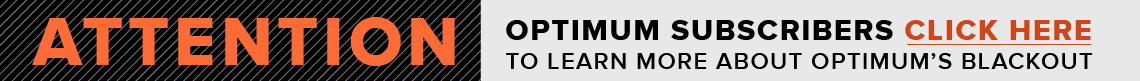
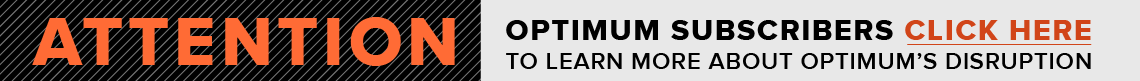
retr edits

Changed region(s): [[0.4605, 0.642, 0.9825, 0.8642]]

diff --git a/optimum/iframe/banner-kags.html b/optimum/iframe/banner-kags.html
@@ -17,7 +17,7 @@
  </style>
 </head>
 <body>
-    <a href="../kags.html" target="_top"><img src="optimum-banner.png" alt="ATTENTION OPTIMUM subscribers - Click here to learn about Optimum's BLACKOUT" title="ATTENTION OPTIMUM subscribers - Click here to learn about Optimum's BLACKOUT" /></a>
+    <a href="../kags.html" target="_top"><img src="optimum-banner.png" alt="ATTENTION OPTIMUM subscribers - Click here to learn about Optimum's disruption" title="ATTENTION OPTIMUM subscribers - Click here to learn about Optimum's disruption" /></a>
     
 </body>
 </html>

diff --git a/optimum/iframe/banner-kbmt.html b/optimum/iframe/banner-kbmt.html
@@ -17,7 +17,7 @@
  </style>
 </head>
 <body>
-    <a href="../kbmt.html" target="_top"><img src="optimum-banner.png" alt="ATTENTION OPTIMUM subscribers - Click here to learn about Optimum's BLACKOUT" title="ATTENTION OPTIMUM subscribers - Click here to learn about Optimum's BLACKOUT" /></a>
+    <a href="../kbmt.html" target="_top"><img src="optimum-banner.png" alt="ATTENTION OPTIMUM subscribers - Click here to learn about Optimum's disruption" title="ATTENTION OPTIMUM subscribers - Click here to learn about Optimum's disruption" /></a>
     
 </body>
 </html>

diff --git a/optimum/iframe/banner-kcen.html b/optimum/iframe/banner-kcen.html
@@ -17,7 +17,7 @@
  </style>
 </head>
 <body>
-    <a href="../kcen.html" target="_top"><img src="optimum-banner.png" alt="ATTENTION OPTIMUM subscribers - Click here to learn about Optimum's BLACKOUT" title="ATTENTION OPTIMUM subscribers - Click here to learn about Optimum's BLACKOUT" /></a>
+    <a href="../kcen.html" target="_top"><img src="optimum-banner.png" alt="ATTENTION OPTIMUM subscribers - Click here to learn about Optimum's disruption" title="ATTENTION OPTIMUM subscribers - Click here to learn about Optimum's disruption" /></a>
     
 </body>
 </html>

diff --git a/optimum/iframe/banner-kfsm.html b/optimum/iframe/banner-kfsm.html
@@ -17,7 +17,7 @@
  </style>
 </head>
 <body>
-    <a href="../kfsm.html" target="_top"><img src="optimum-banner.png" alt="ATTENTION OPTIMUM subscribers - Click here to learn about Optimum's BLACKOUT" title="ATTENTION OPTIMUM subscribers - Click here to learn about Optimum's BLACKOUT" /></a>
+    <a href="../kfsm.html" target="_top"><img src="optimum-banner.png" alt="ATTENTION OPTIMUM subscribers - Click here to learn about Optimum's disruption" title="ATTENTION OPTIMUM subscribers - Click here to learn about Optimum's disruption" /></a>
     
 </body>
 </html>

diff --git a/optimum/iframe/banner-khou.html b/optimum/iframe/banner-khou.html
@@ -17,7 +17,7 @@
  </style>
 </head>
 <body>
-    <a href="../khou.html" target="_top"><img src="optimum-banner.png" alt="ATTENTION OPTIMUM subscribers - Click here to learn about Optimum's BLACKOUT" title="ATTENTION OPTIMUM subscribers - Click here to learn about Optimum's BLACKOUT" /></a>
+    <a href="../khou.html" target="_top"><img src="optimum-banner.png" alt="ATTENTION OPTIMUM subscribers - Click here to learn about Optimum's disruption" title="ATTENTION OPTIMUM subscribers - Click here to learn about Optimum's disruption" /></a>
     
 </body>
 </html>

diff --git a/optimum/iframe/banner-kidy.html b/optimum/iframe/banner-kidy.html
@@ -17,7 +17,7 @@
  </style>
 </head>
 <body>
-    <a href="../kidy.html" target="_top"><img src="optimum-banner.png" alt="ATTENTION OPTIMUM subscribers - Click here to learn about Optimum's BLACKOUT" title="ATTENTION OPTIMUM subscribers - Click here to learn about Optimum's BLACKOUT" /></a>
+    <a href="../kidy.html" target="_top"><img src="optimum-banner.png" alt="ATTENTION OPTIMUM subscribers - Click here to learn about Optimum's disruption" title="ATTENTION OPTIMUM subscribers - Click here to learn about Optimum's disruption" /></a>
     
 </body>
 </html>

diff --git a/optimum/iframe/banner-kpnx.html b/optimum/iframe/banner-kpnx.html
@@ -17,7 +17,7 @@
  </style>
 </head>
 <body>
-    <a href="../kpnx.html" target="_top"><img src="optimum-banner.png" alt="ATTENTION OPTIMUM subscribers - Click here to learn about Optimum's BLACKOUT" title="ATTENTION OPTIMUM subscribers - Click here to learn about Optimum's BLACKOUT" /></a>
+    <a href="../kpnx.html" target="_top"><img src="optimum-banner.png" alt="ATTENTION OPTIMUM subscribers - Click here to learn about Optimum's disruption" title="ATTENTION OPTIMUM subscribers - Click here to learn about Optimum's disruption" /></a>
     
 </body>
 </html>

diff --git a/optimum/iframe/banner-krem.html b/optimum/iframe/banner-krem.html
@@ -17,7 +17,7 @@
  </style>
 </head>
 <body>
-    <a href="../krem.html" target="_top"><img src="optimum-banner.png" alt="ATTENTION OPTIMUM subscribers - Click here to learn about Optimum's BLACKOUT" title="ATTENTION OPTIMUM subscribers - Click here to learn about Optimum's BLACKOUT" /></a>
+    <a href="../krem.html" target="_top"><img src="optimum-banner.png" alt="ATTENTION OPTIMUM subscribers - Click here to learn about Optimum's disruption" title="ATTENTION OPTIMUM subscribers - Click here to learn about Optimum's disruption" /></a>
     
 </body>
 </html>

diff --git a/optimum/iframe/banner-kthv.html b/optimum/iframe/banner-kthv.html
@@ -17,7 +17,7 @@
  </style>
 </head>
 <body>
-    <a href="../kthv.html" target="_top"><img src="optimum-banner.png" alt="ATTENTION OPTIMUM subscribers - Click here to learn about Optimum's BLACKOUT" title="ATTENTION OPTIMUM subscribers - Click here to learn about Optimum's BLACKOUT" /></a>
+    <a href="../kthv.html" target="_top"><img src="optimum-banner.png" alt="ATTENTION OPTIMUM subscribers - Click here to learn about Optimum's disruption" title="ATTENTION OPTIMUM subscribers - Click here to learn about Optimum's disruption" /></a>
     
 </body>
 </html>

diff --git a/optimum/iframe/banner-kvue.html b/optimum/iframe/banner-kvue.html
@@ -17,7 +17,7 @@
  </style>
 </head>
 <body>
-    <a href="../kvue.html" target="_top"><img src="optimum-banner.png" alt="ATTENTION OPTIMUM subscribers - Click here to learn about Optimum's BLACKOUT" title="ATTENTION OPTIMUM subscribers - Click here to learn about Optimum's BLACKOUT" /></a>
+    <a href="../kvue.html" target="_top"><img src="optimum-banner.png" alt="ATTENTION OPTIMUM subscribers - Click here to learn about Optimum's disruption" title="ATTENTION OPTIMUM subscribers - Click here to learn about Optimum's disruption" /></a>
     
 </body>
 </html>

diff --git a/optimum/iframe/banner-kwes.html b/optimum/iframe/banner-kwes.html
@@ -17,7 +17,7 @@
  </style>
 </head>
 <body>
-    <a href="../kwes.html" target="_top"><img src="optimum-banner.png" alt="ATTENTION OPTIMUM subscribers - Click here to learn about Optimum's BLACKOUT" title="ATTENTION OPTIMUM subscribers - Click here to learn about Optimum's BLACKOUT" /></a>
+    <a href="../kwes.html" target="_top"><img src="optimum-banner.png" alt="ATTENTION OPTIMUM subscribers - Click here to learn about Optimum's disruption" title="ATTENTION OPTIMUM subscribers - Click here to learn about Optimum's disruption" /></a>
     
 </body>
 </html>

diff --git a/optimum/iframe/banner-kxtv.html b/optimum/iframe/banner-kxtv.html
@@ -17,7 +17,7 @@
  </style>
 </head>
 <body>
-    <a href="../kxtv.html" target="_top"><img src="optimum-banner.png" alt="ATTENTION OPTIMUM subscribers - Click here to learn about Optimum's BLACKOUT" title="ATTENTION OPTIMUM subscribers - Click here to learn about Optimum's BLACKOUT" /></a>
+    <a href="../kxtv.html" target="_top"><img src="optimum-banner.png" alt="ATTENTION OPTIMUM subscribers - Click here to learn about Optimum's disruption" title="ATTENTION OPTIMUM subscribers - Click here to learn about Optimum's disruption" /></a>
     
 </body>
 </html>
